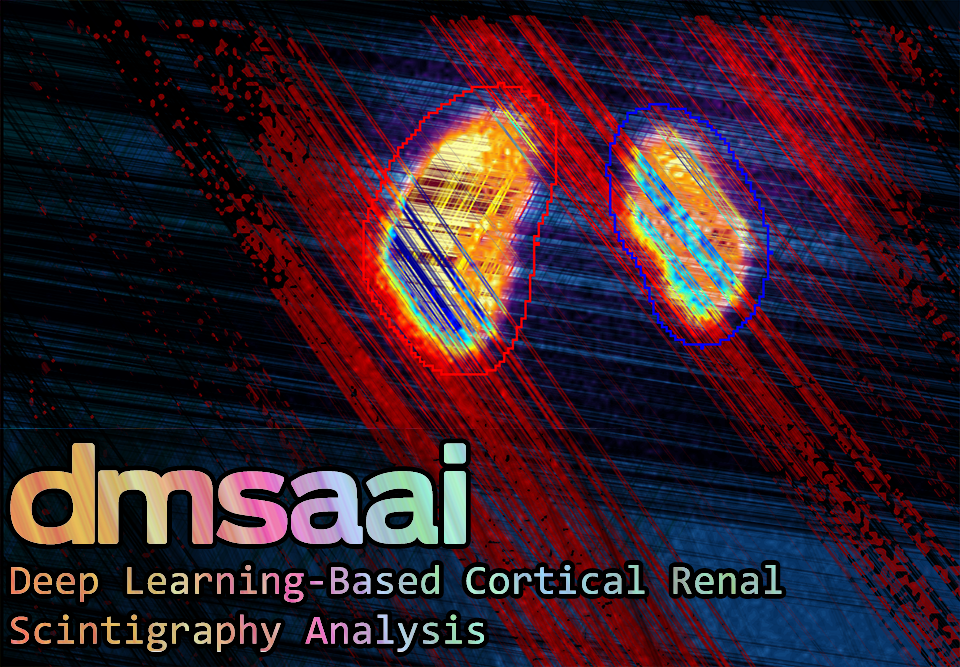
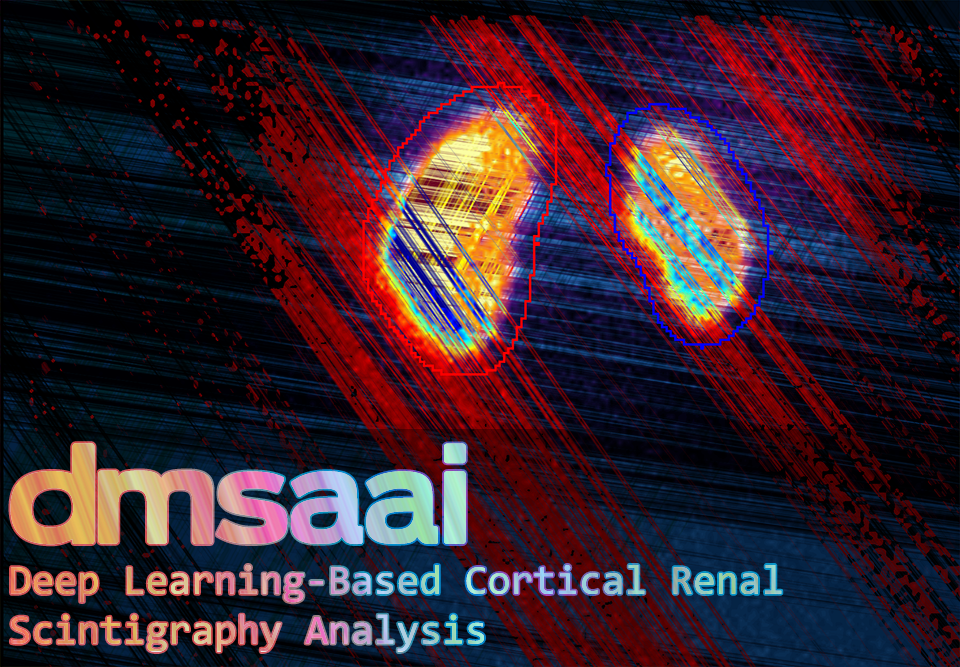
new splashes

Changed region(s): [[0.0, 0.6297, 1.0, 1.0], [0.4062, 0.6297, 0.4375, 0.6597]]

diff --git a/dmsaai.py b/dmsaai.py
@@ -2,6 +2,7 @@
 import os
 import time
 import subprocess
+import random
 
 # 1. IMPORT LIGHTWEIGHT PYQT5 MODULES FIRST
 try:
@@ -28,8 +29,9 @@ except ImportError:
 # 2. INITIALIZE APP & SPLASH SCREEN IMMEDIATELY
 app = QApplication(sys.argv)
 
+
 # Load your banner image
-splash_pixmap = QPixmap("banner2.png") 
+splash_pixmap = QPixmap(f"banner{random.randint(1, 4)}.png") 
 # Include FramelessWindowHint just to be safe
 splash = QSplashScreen(splash_pixmap, Qt.WindowStaysOnTopHint | Qt.FramelessWindowHint)
 